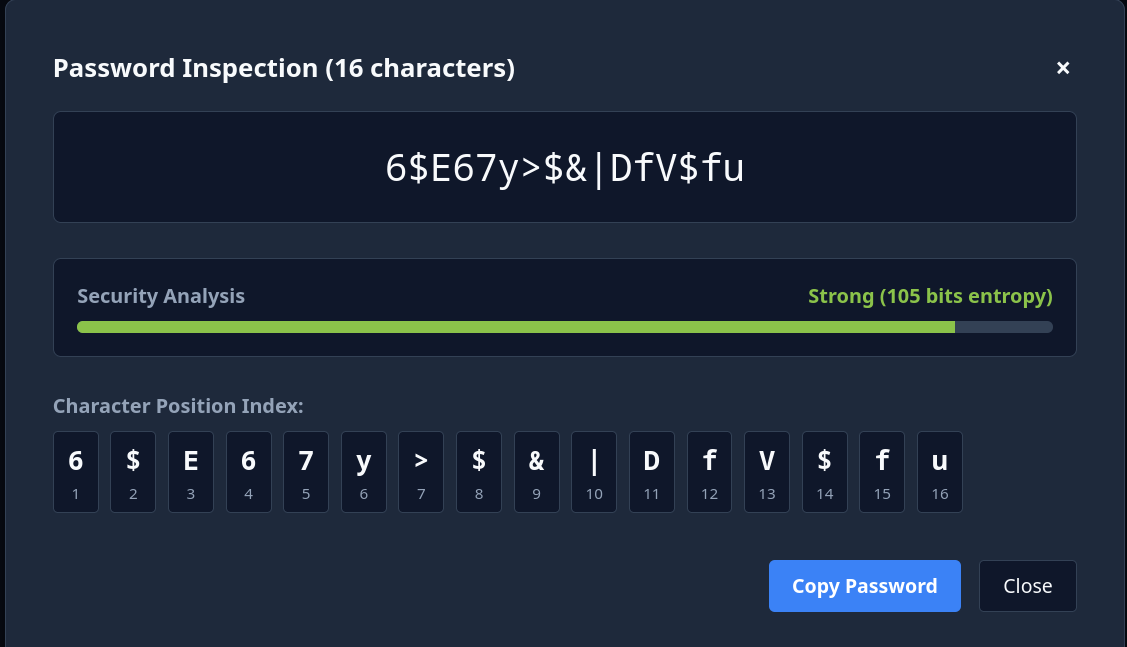
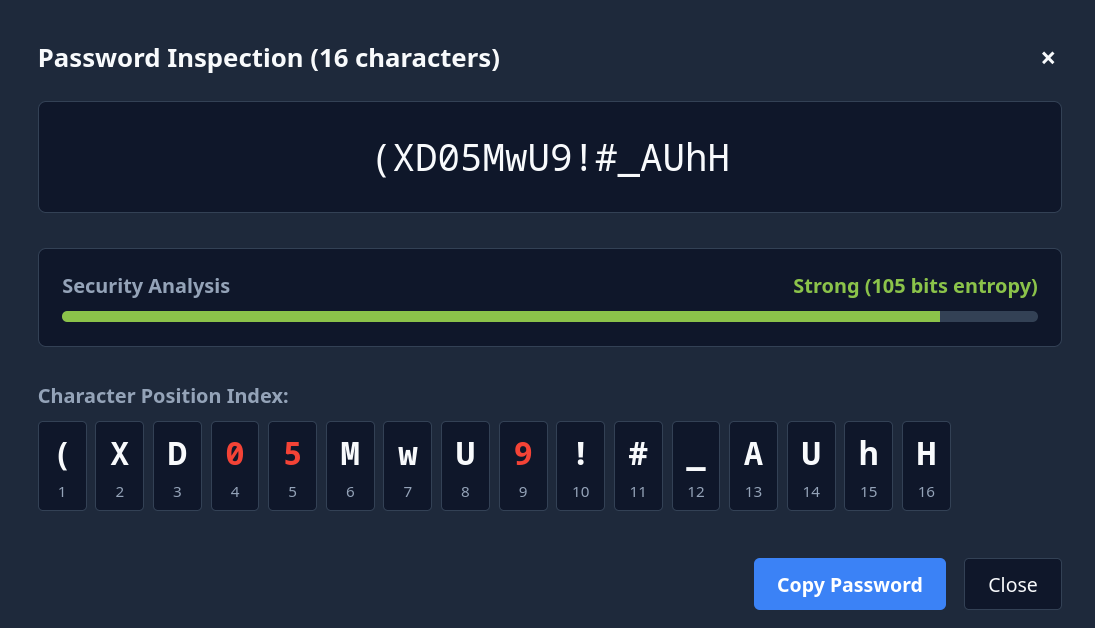
updated readme screenshots

diff --git a/README.md b/README.md
@@ -2,11 +2,11 @@
 
 A modern web application for generating secure character passwords and word passphrases, built with a secure backend and responsive frontend.
 
-<p align="left">
+<div style="display: flex; align-items: flex-start; gap: 10px;">
   <img src="frontend/public/pp2.png" width="30%" alt="Penguin Pass Screenshot 1" style="margin: 5px;" />
   <img src="frontend/public/pp1.png" width="30%" alt="Penguin Pass Screenshot 2" style="margin: 5px;" />
   <img src="frontend/public/pp3.png" width="30%" alt="Penguin Pass Screenshot 3" style="margin: 5px;" />
-</p>
+</div>
 
 ## Features
 
